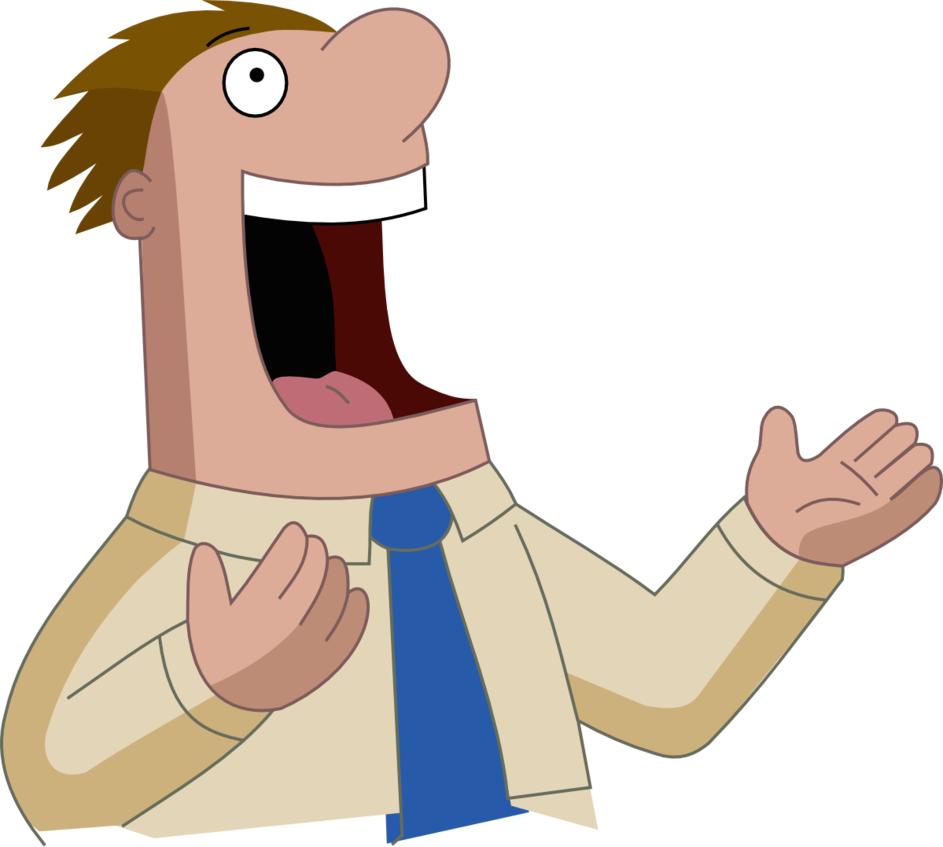
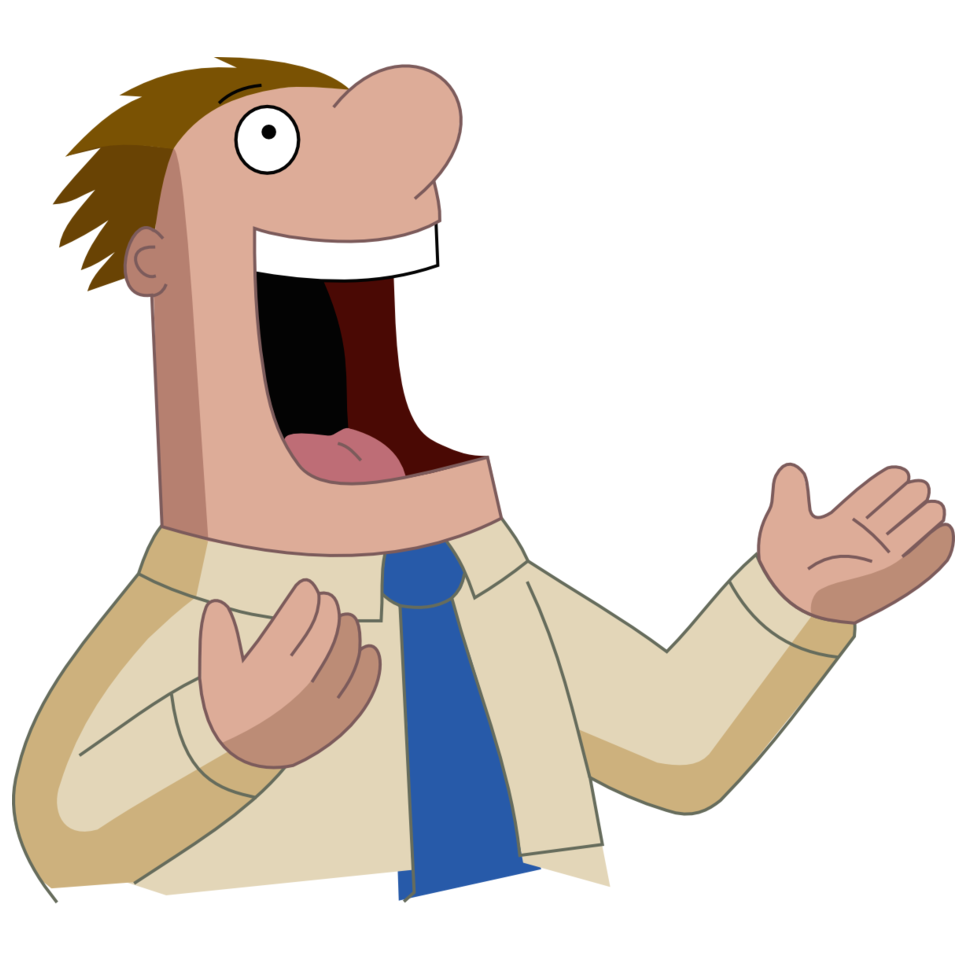
white border loud_howard

Changed region(s): [[0.0, 0.0, 1.0, 1.0]]

diff --git a/style.css b/style.css
@@ -16,9 +16,9 @@ body {
 
 header.panel {
     background: url(img/loud_howard.png);
-    background-size: 140px;
+    background-size: 150px;
     background-repeat: no-repeat;
-    background-position: 50px 10px;
+    background-position: 50px 0px;
     background-color: #58edfe;
     height: 120px;
     display: flex;
@@ -60,7 +60,8 @@ header h1 {
     background: url(img/loud_howard.png);
     background-size: cover;
     background-repeat: no-repeat;
-    background-position: 10px 10px;
+    background-position: 5px 5px;
+    background-size: 100px;
     background-color: #58edfe;
     width: 80px;
     height: 80px;
